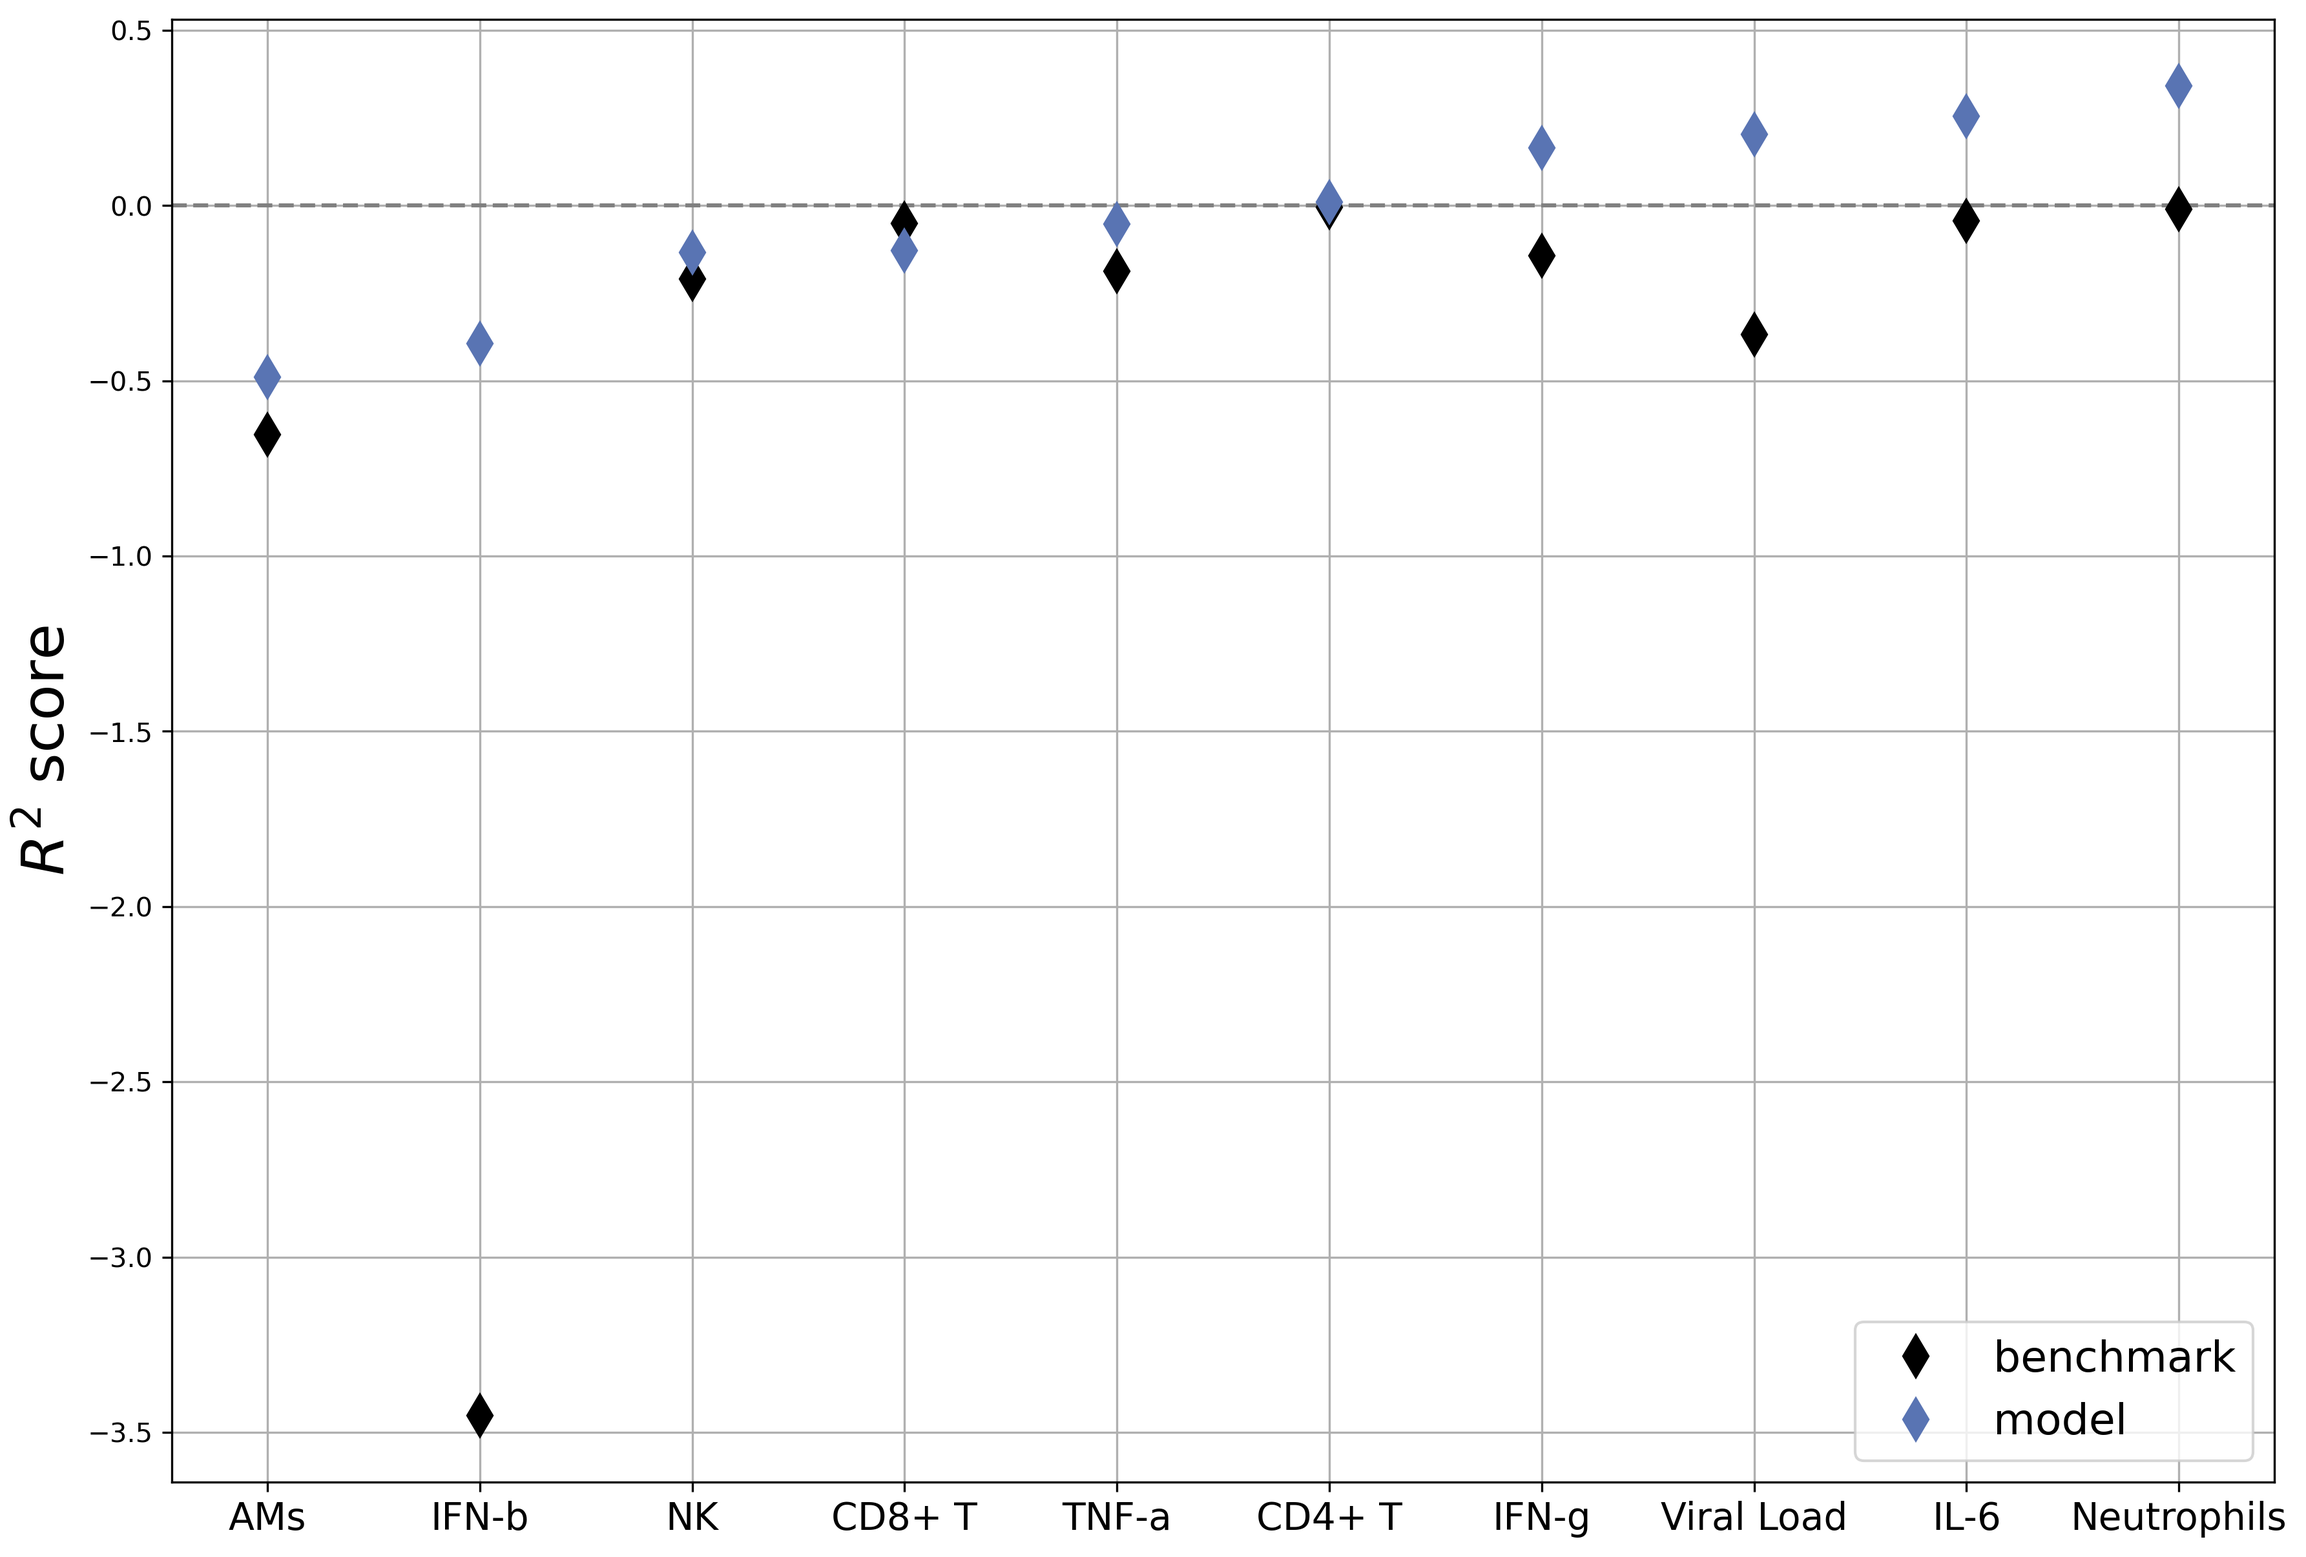
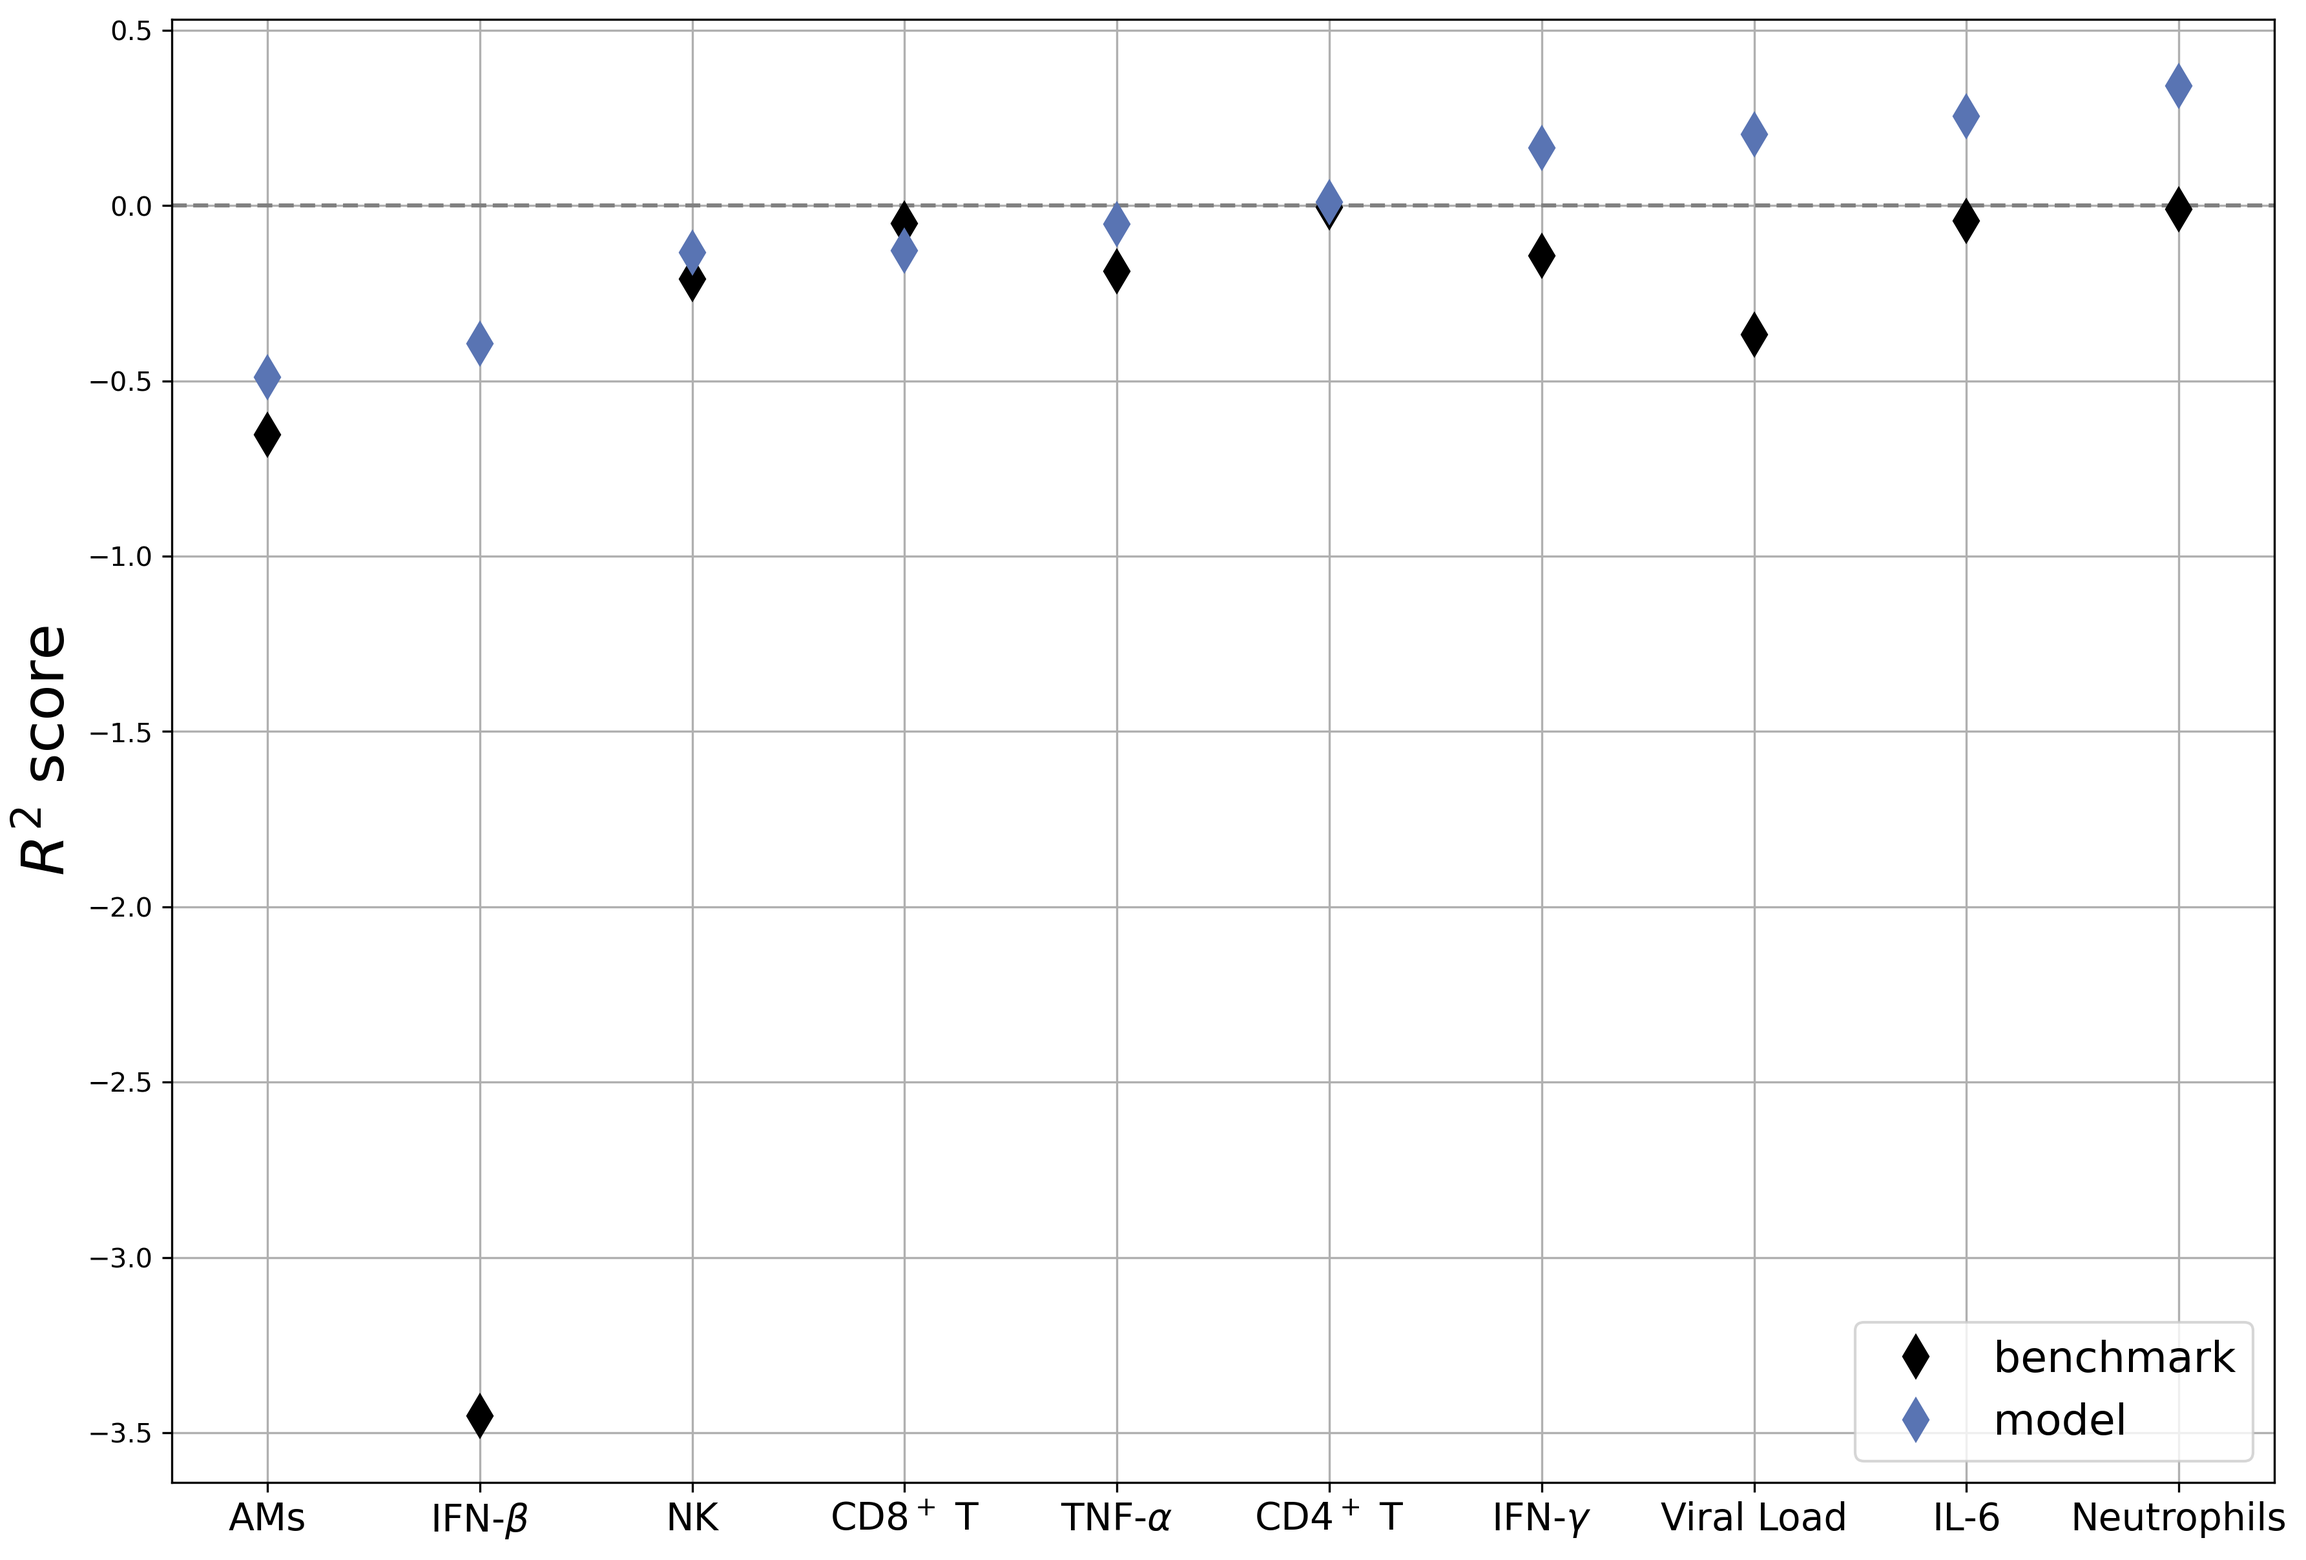
minor fixes

diff --git a/Code/VL_Mapping.py b/Code/VL_Mapping.py
@@ -393,12 +393,11 @@ result = []
 
 # calculate permutation importance for every model
 for mod in NN_mod_lst:
-     result.append(permutation_importance(mod, X_test, y_test, n_repeats=2, 
+     result.append(permutation_importance(mod, X_test, y_test, n_repeats=100, 
                                 scoring=make_scorer(mean_squared_error, greater_is_better=False),
                                 random_state=42, n_jobs=1))
     
 #%% calculate mean of permutation importance
- 
 res_importances_mean = np.mean([r.importances_mean for r in result], axis=0)
 res_importances = np.mean([r.importances for r in result], axis=0)
 sorted_idx = res_importances_mean.argsort()

diff --git a/Code/Plot_R2_scores_comparison.py b/Code/Plot_R2_scores_comparison.py
@@ -14,7 +14,7 @@ import pandas as pd
 import matplotlib.pyplot as plt
 
 # name of the mapped lung parameter
-name = ["AMs", "CD4+ T", "CD8+ T", "IFN-b", "IFN-g", "IL-6", "NK", "Neutrophils", "TNF-a",
+name = ["AMs", r"CD4$^+$ T", r"CD8$^+$ T", r"IFN-$\beta$", r"IFN-$\gamma$", "IL-6", "NK", "Neutrophils", r"TNF-$\alpha$",
         "Viral Load"]
 
 # r2 scores for each parameter
